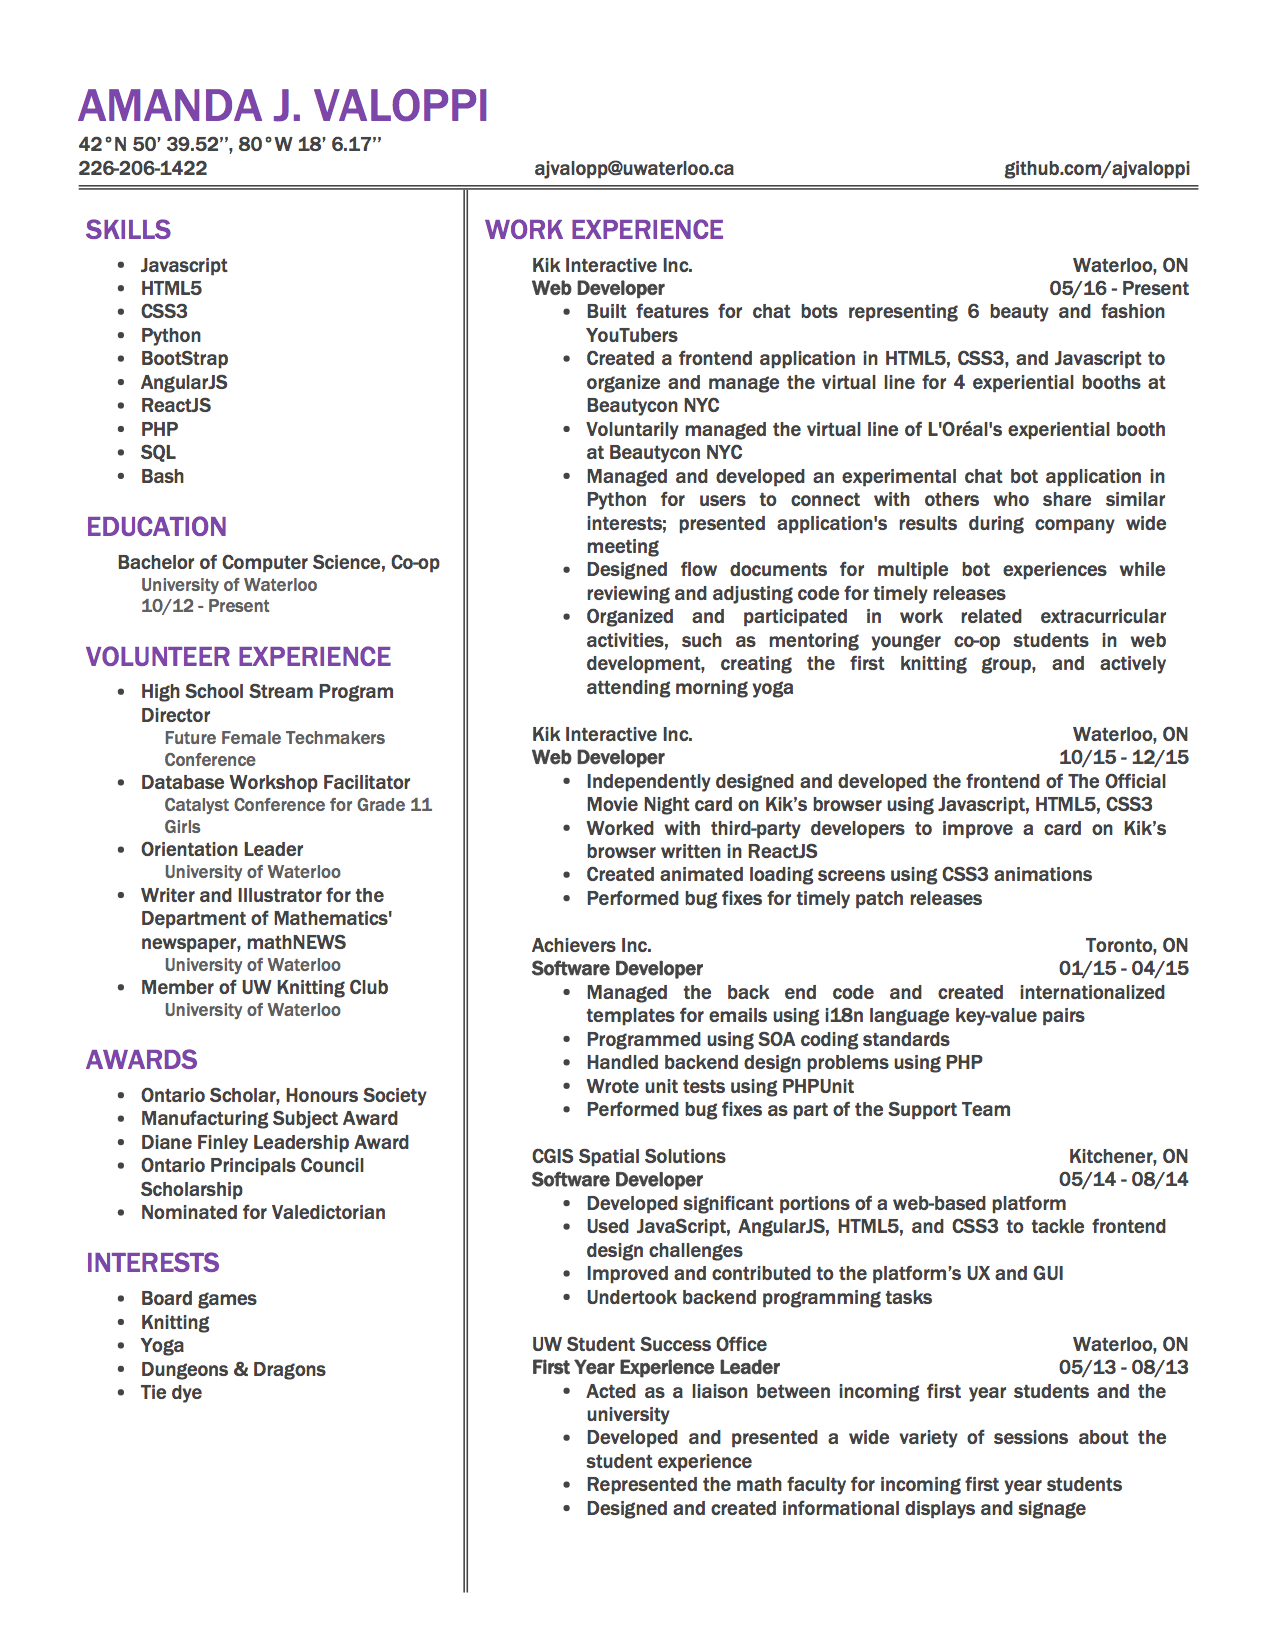
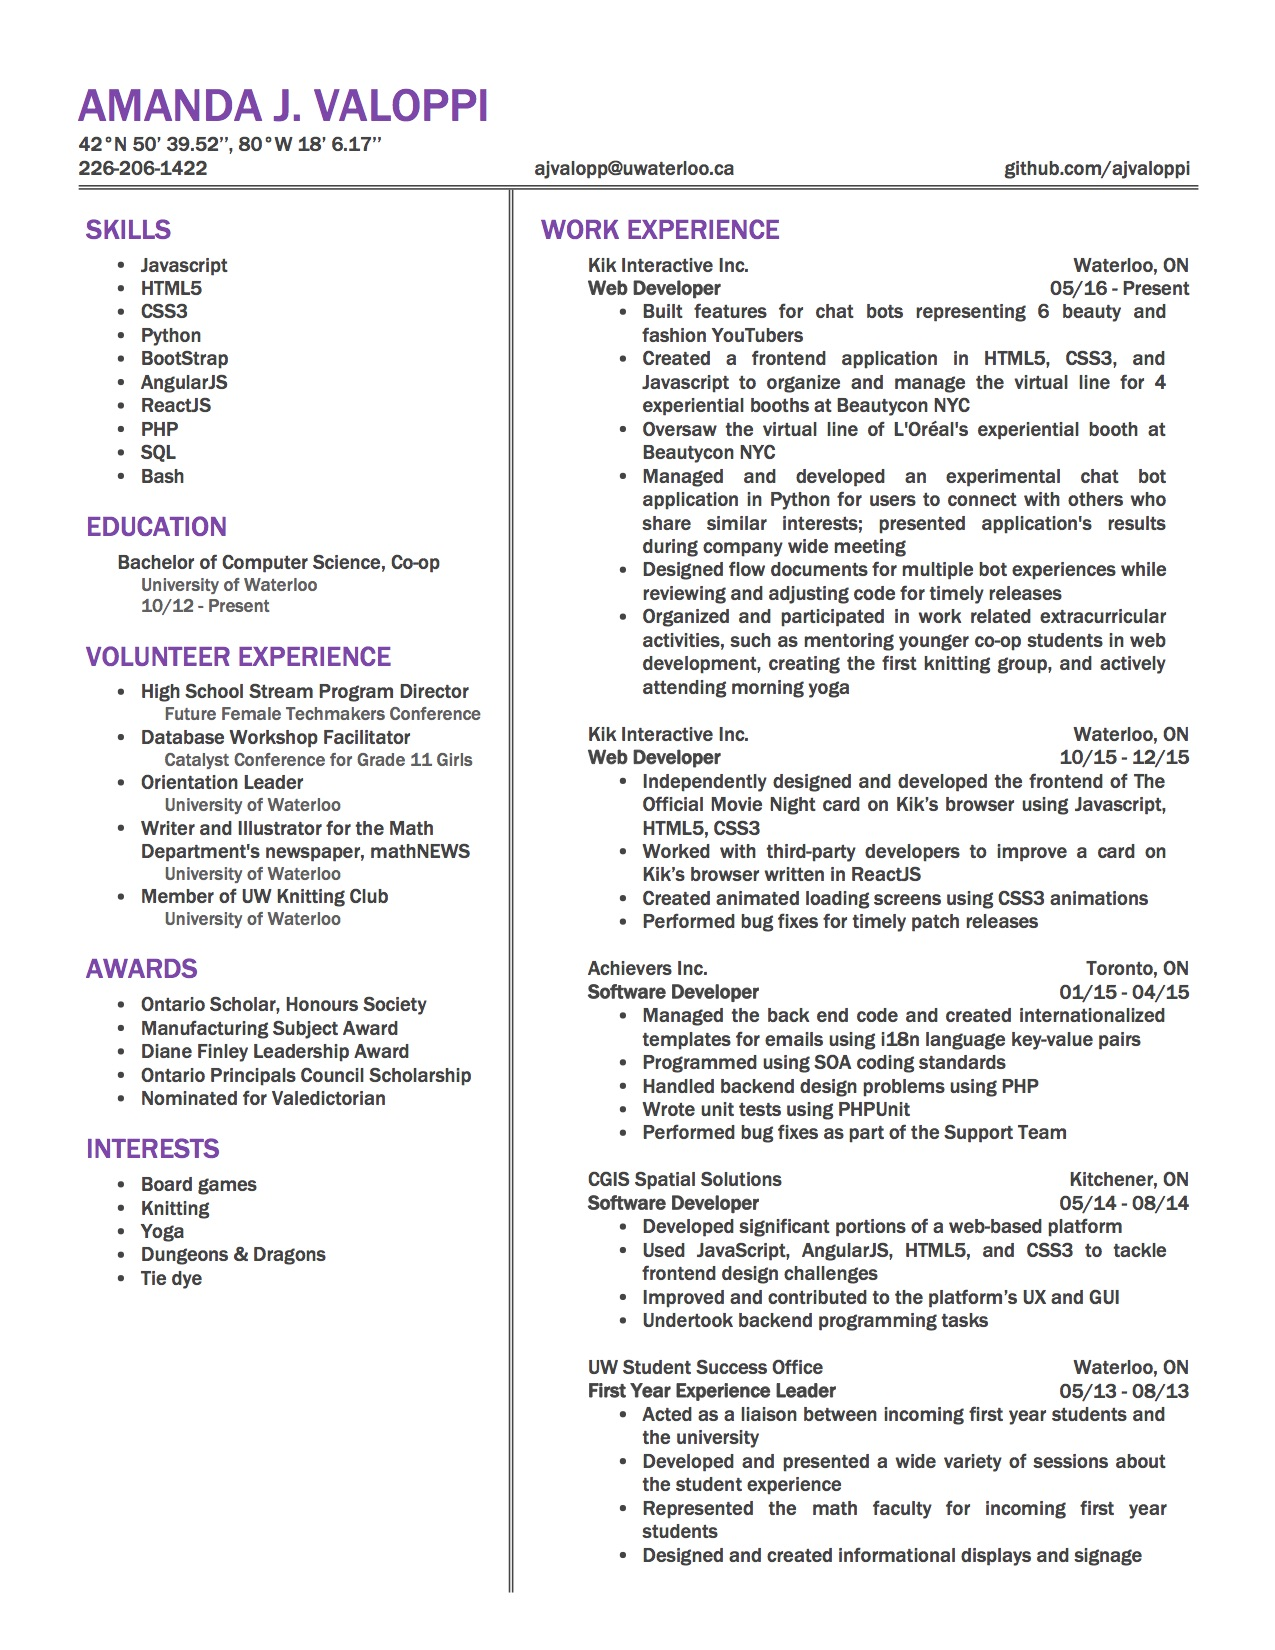
fixed some widows

diff --git a/resume.html b/resume.html
@@ -111,7 +111,7 @@
 	    			</ul>
 	    		</li>
 	    		<li>
-	    			Writer and Illustrator for the Department of Mathematics' newspaper, mathNEWS
+	    			Writer and Illustrator for the Math Department's newspaper, mathNEWS
 	    			<ul class="subPoint">
 	    				<li>
 	    					University of Waterloo
@@ -204,7 +204,7 @@
 			    			Created a frontend application in HTML5, CSS3, and Javascript to organize and manage the virtual line for 4 experiential booths at Beautycon NYC
 			    		</li>
 			    		<li>
-			    			Voluntarily managed the virtual line of L'Oréal's experiential booth at Beautycon NYC
+			    			Oversaw the virtual line of L'Oréal's experiential booth at Beautycon NYC
 			    		</li>
 			    		<li>
 			    			Managed and developed an experimental chat bot application in Python for users to connect with others who share similar interests; presented application's results during company wide meeting

diff --git a/styling.css b/styling.css
@@ -39,15 +39,11 @@ body {
 
 #sidebar {
 	padding: 15px 5px 5px 5px;
-	width: 33%;
+	width: 37%;
 	display: inline-block;
 	border-right: double #424242;
 	padding-bottom: 100%;
 	margin-bottom: -100%;
-}
-
-#skills {
-	
 }
 
 .list {
@@ -71,7 +67,7 @@ body {
 
 #experience {
 	padding: 15px 5px 5px 5px;
-	width: 63%;
+	width: 58%;
 	display: inline-block;
 	float: right;
 }
